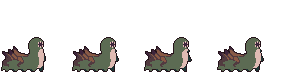
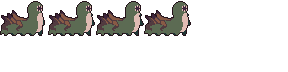
Fix boss sprites

diff --git a/lib/sprite_sheets/centipede_sprite_sheet.dart b/lib/sprite_sheets/centipede_sprite_sheet.dart
@@ -2,43 +2,42 @@ import 'package:bonfire/bonfire.dart';
 
 class CentipedeSpriteSheet {
   static Future<SpriteAnimation> get centipedeIdleLeft => SpriteAnimation.load(
-    "enemy/centipede/centipede_idle_left.png",
-    SpriteAnimationData.sequenced(
-      amount: 4,
-      stepTime: 0.2,
-      textureSize: Vector2(50, 36),
-    ),
-  );
+        "enemy/centipede/centipede_idle_left.png",
+        SpriteAnimationData.sequenced(
+          amount: 4,
+          stepTime: 0.2,
+          textureSize: Vector2(48, 36),
+        ),
+      );
 
   static Future<SpriteAnimation> get centipedeIdleRight => SpriteAnimation.load(
-    "enemy/centipede/centipede_idle_right.png",
-    SpriteAnimationData.sequenced(
-      amount: 4,
-      stepTime: 0.2,
-      textureSize: Vector2(50, 36),
-    ),
-  );
+        "enemy/centipede/centipede_idle_right.png",
+        SpriteAnimationData.sequenced(
+          amount: 4,
+          stepTime: 0.2,
+          textureSize: Vector2(48, 36),
+        ),
+      );
 
   static Future<SpriteAnimation> get centipedeRunRight => SpriteAnimation.load(
-    "enemy/centipede/centipede_run_right.png",
-    SpriteAnimationData.sequenced(
-      amount: 4,
-      stepTime: 0.2,
-      textureSize: Vector2(50, 36),
-    ),
-  );
+        "enemy/centipede/centipede_run_right.png",
+        SpriteAnimationData.sequenced(
+          amount: 4,
+          stepTime: 0.2,
+          textureSize: Vector2(48, 36),
+        ),
+      );
 
   static Future<SpriteAnimation> get centipedeRunLeft => SpriteAnimation.load(
-    "enemy/centipede/centipede_run_left.png",
-    SpriteAnimationData.sequenced(
-      amount: 4,
-      stepTime: 0.2,
-      textureSize: Vector2(50, 36),
-    ),
-  );
+        "enemy/centipede/centipede_run_left.png",
+        SpriteAnimationData.sequenced(
+          amount: 4,
+          stepTime: 0.2,
+          textureSize: Vector2(48, 36),
+        ),
+      );
 
-  static SimpleDirectionAnimation get centipedeSimpleDirectionAnimation =>
-      SimpleDirectionAnimation(
+  static SimpleDirectionAnimation get centipedeSimpleDirectionAnimation => SimpleDirectionAnimation(
         idleRight: centipedeIdleRight,
         runRight: centipedeRunRight,
       );

diff --git a/lib/enemies/boss/centipede.dart b/lib/enemies/boss/centipede.dart
@@ -12,16 +12,15 @@ class Centipede extends SimpleEnemy
         MovementByJoystick,
         AutomaticRandomMovement,
         UseBarLife,
-        UseStateController<CentipedeController>
-{
+        UseStateController<CentipedeController> {
   Centipede(Vector2 position)
       : super(
-    animation: CentipedeSpriteSheet.centipedeSimpleDirectionAnimation,
-    position: position,
-    size: Vector2.all(DemoDungeonMap.tileSize * 3),
-    speed: DemoDungeonMap.tileSize * 0.8,
-    life: 1000,
-  ) {
+          animation: CentipedeSpriteSheet.centipedeSimpleDirectionAnimation,
+          position: position,
+          size: Vector2(128, 96),
+          speed: DemoDungeonMap.tileSize * 0.8,
+          life: 1000,
+        ) {
     setupCollision(
       CollisionConfig(
         collisions: [

diff --git a/lib/overworld/overworld.dart b/lib/overworld/overworld.dart
@@ -4,7 +4,6 @@ import 'package:hackerspace_game_jam_2023/dungeon/demo_dungeon_map.dart';
 import 'package:hackerspace_game_jam_2023/enemies/boss/centipede.dart';
 import 'package:hackerspace_game_jam_2023/overworld/player.dart';
 
-import '../enemies/goblin.dart';
 import '../interface/life_bar.dart';
 
 class Overworld extends StatelessWidget {
@@ -32,6 +31,7 @@ class Overworld extends StatelessWidget {
           decorations: DemoDungeonMap.decorations(),
           cameraConfig: CameraConfig(zoom: 3),
           interface: GameInterface()..add(LifeBar()),
+          constructionMode: true,
         ),
       ],
     );

diff --git a/lib/enemies/boss/centipede_controller.dart b/lib/enemies/boss/centipede_controller.dart
@@ -5,7 +5,7 @@ import 'package:hackerspace_game_jam_2023/dungeon/demo_dungeon_map.dart';
 import 'centipede.dart';
 
 class CentipedeController extends StateController<Centipede> {
-  double attack = 100;
+  double attack = 0;
   bool _seePlayerToAttackMelee = false;
   bool enableBehaviors = true;
 
